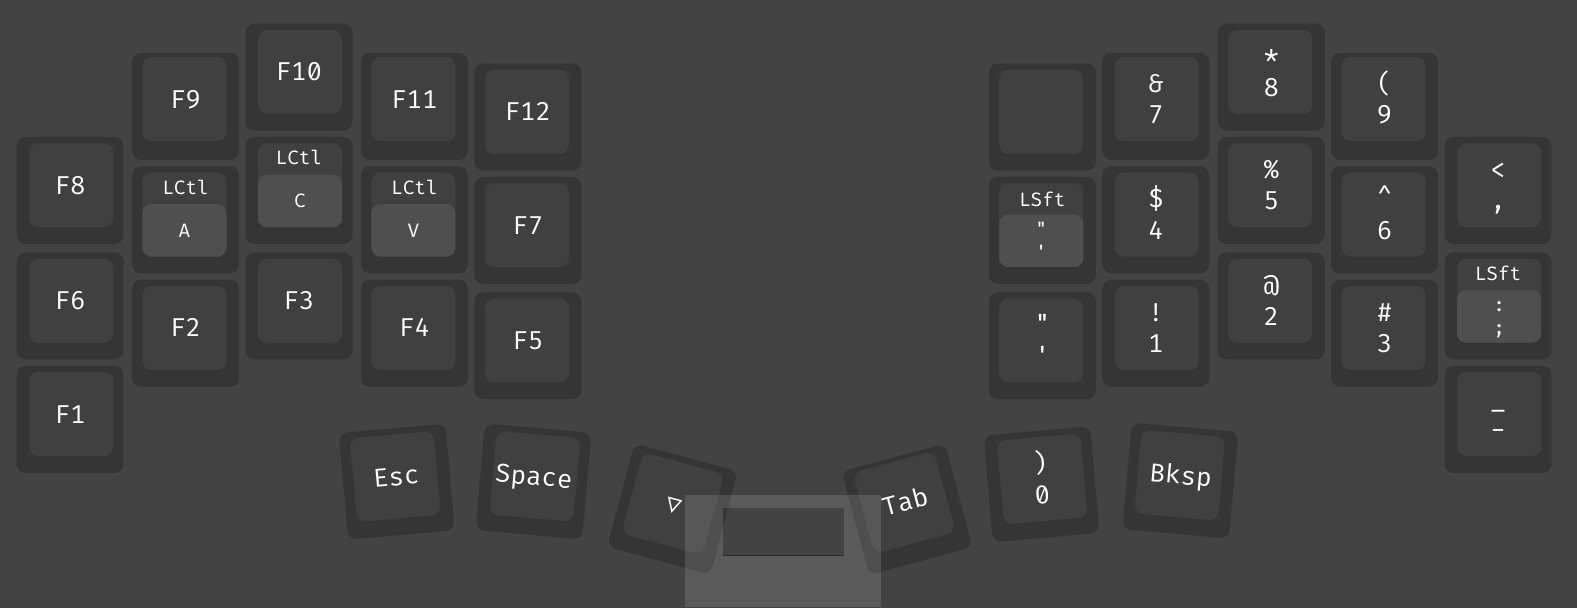
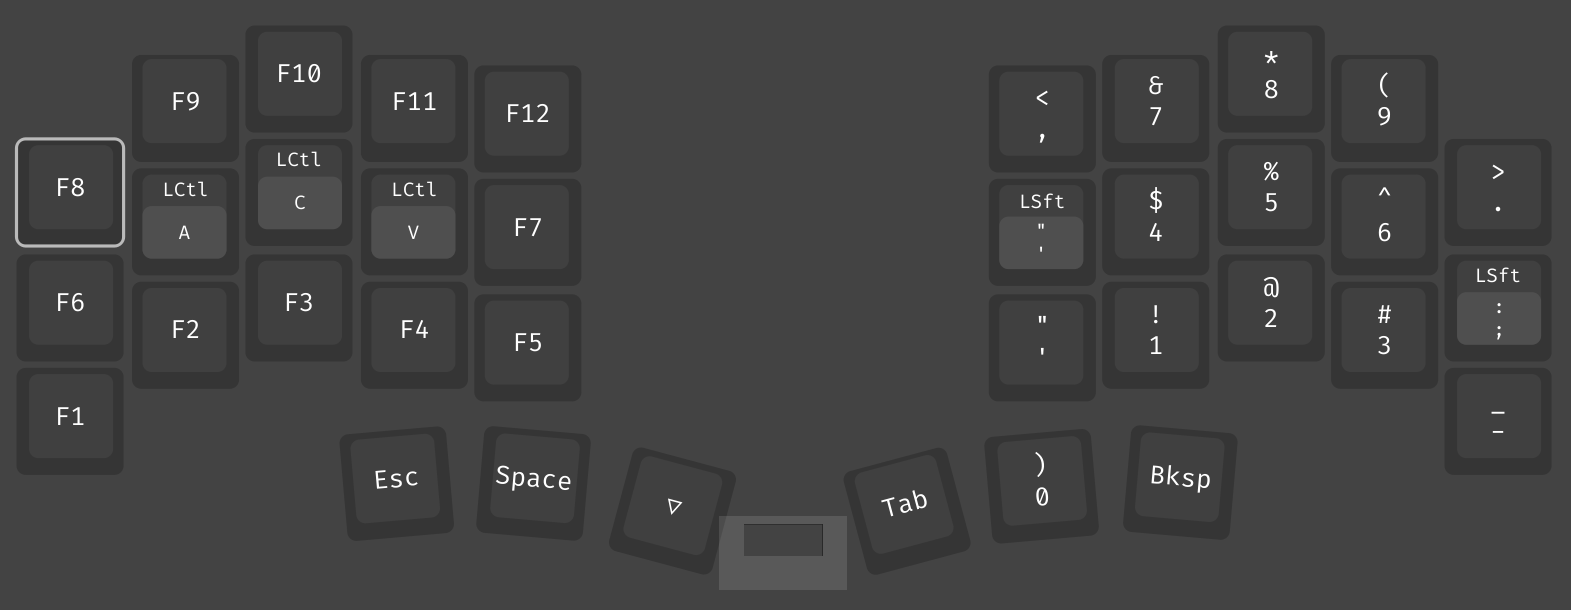
docs(README): update number layer image and explanations kanata

diff --git a/README.md b/README.md
@@ -7,6 +7,11 @@ I own a regular wired 5x6 Piantor Pro for at home configured via QMK, and a blue
 go configured based on this configuration. Both configurations are identical except for the couple
 notes below.
 
+Moreover I emulate this layout using [kanata](https://github.com/jtroo/kanata) on my laptops. The
+configurations for this can be found in my [Nix setup
+repository](https://github.com/f4z3r/nix/blob/master/nixos/kanata.nix). In that setup I have
+additional macros for QoL. I rarely use them though.
+
 ## Configuration
 
 Most of the configuration is done via [Keymap Editor](https://nickcoutsos.github.io/keymap-editor/)
@@ -15,6 +20,8 @@ with some setting tweaks done by hand.
 ## Layout
 
 ### COLEMAK
+
+This is technically a Colemak Mod-DH layout.
 
 ![Colemak Layer](./assets/colemak.png)
 
@@ -47,5 +54,13 @@ with some setting tweaks done by hand.
 
 ## Settings
 
-Generally, the tapping for tap/hold or tap/layer is setup to have a tapping term at 150ms and a
-quick tap term of 150ms. I use hold-preferred on tap/hold and tap-preferred tap/layer.
+Generally, the tapping for tap/hold, mod/tap, or tap/layer is setup to have a tapping term at 150ms
+and a quick tap term of 150ms. I use:
+
+- `balanced` tap behaviour with `hold-trigger-on-release` on tap/hold for the homerow mods
+- `hold-preferred` tap behaviour with `hold-trigger-on-release` on mod/tap for shifted enter
+- `tap-preferred` tap behaviour on tap/layer.
+
+This configuration perfectly matches my typing style for homerow mods and how I use my mod/tap
+"Enter RS" key on the right thumb. It allows for the typical rolling movements of the Colemak layout
+while easily allowing to combine mods on one hand with a keys press of the other hand.
